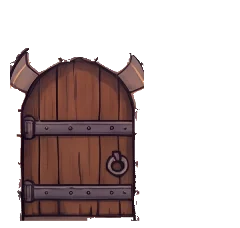
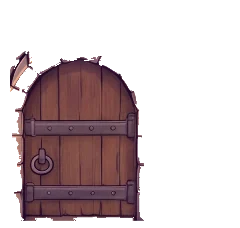
33.3: Draw every painted door as painted at every tick, hang each on the jamb it opens on, open the double door within its doorway, and show the common room's planks through its door
D156. doorLook never sets the placeholder's frame on a door with painted states: where
the state's picture is not loaded it keeps the painted state it shows and takes the
picture once it is added. The scene says each door's picture in data-door-looks, and a
browser test plays *Izquierda o derecha* in both ways and the three doors, every tick and
back to the first and the last, holding each door's painted state. The "old door" of the
owner's ticks 9 and 13 was a stale capture (33.1); the owner's tick 6 was true of the
painting: the room of two doors' right door, and the three doors, were hinged on the left
when shut and opened on the right. The owner chose (2026-11-08) to paint them shut with
their ironwork on the side they open on: two-doors-closed-hinged.md (1 image) for the
right door, three-doors-closed-hinged.md (1 image) for the three, whose top door stayed
as it was, asked again with -2 and -3 (2 retries). Each shut leaf is cut by difference
against the base (trace.py diff, its box as before); the top door's picture came back a
little cooler, so its mask takes some of its left jamb (leak 0.05), which the arch's own
cut-out is drawn over: the doors sheet shows no seam.

D158. The way down's double door, opened wide, ran into the side walls. Gemini opened it
again from the base and the shut picture, without the wide one (whose layout a model
copies): way-down-open-half.md laid the leaves over the piers again and took the jambs
[…]

Changed region(s): [[0.0292, 0.2149, 0.6125, 0.9825]]

diff --git a/app/e2e/chapter-3.spec.ts b/app/e2e/chapter-3.spec.ts
@@ -368,6 +368,42 @@ test('the map shows chapter 3 in its order', async ({ page }) => {
   await page.locator('.map-chapter').nth(2).screenshot({ path: `${SHOTS}map.png` });
 });
 
+test.describe('a painted door, at every tick (D156)', () => {
+  test.use({ locale: 'en-US' });
+  test.beforeEach(({ page }) => seedWizard(page, PABLO));
+
+  /** Every tick of the run shown, each door drawn with its painted state as it is then:
+   * at the tick it opens, at the run's end, and when the timeline goes back. */
+  async function everyTick(page: Page, doors: string[]): Promise<void> {
+    const timeline = page.locator('#timeline');
+    const last = Number(await timeline.getAttribute('max'));
+    for (const tick of [...Array.from({ length: last + 1 }, (_, t) => t), 0, last]) {
+      await timeline.fill(String(tick));
+      await expect(scene(page)).toHaveAttribute('data-tick', String(tick));
+      await expect
+        .poll(async () => {
+          const open = ((await scene(page).getAttribute('data-doors')) ?? '').split(',');
+          const shown = doors.map((door) => `${door}:art-${door}-${open.includes(door) ? 'open' : 'closed'}`);
+          return (await scene(page).getAttribute('data-door-looks')) === shown.join(';');
+        })
+        .toBe(true);
+    }
+  }
+
+  test('left or right, in both ways, and the three doors', async ({ page }) => {
+    await open(page, 'left-or-right');
+    expect(await run(page, solution('left-or-right'))).toMatch(/^You did it/);
+    for (const way of waysOf('left-or-right')) {
+      await page.locator('#way').selectOption(way, { force: true });
+      await expect(page.locator('.outcome-text')).toHaveText(/^You did it/, { timeout: 30_000 });
+      await everyTick(page, ['left_door', 'right_door']);
+    }
+    await open(page, 'the-three-doors');
+    expect(await run(page, solution('the-three-doors'))).toMatch(/^You did it/);
+    await everyTick(page, ['door_1', 'door_2', 'door_3']);
+  });
+});
+
 for (const [scenery, level] of [
   ['the-tunnel', 'the-doors-corridor'],
   ['the-crossing', 'the-tunnel-exit'],

diff --git a/app/src/engine/scene.ts b/app/src/engine/scene.ts
@@ -373,14 +373,23 @@ class LevelScene extends Phaser.Scene {
     return this.add.sprite(...centre(tile), placeholder, facing).setOrigin(0.5, 0.6);
   }
 
-  /** A door's look, shut or open: its painted state, or the placeholder's frame. */
+  /** A door's look, shut or open: its painted state, or, on a scene with no painting of
+   * it, the placeholder's frame. A painted door is never drawn with the placeholder's
+   * frame (D156): where its state's picture is not there, it keeps the painted state it
+   * shows, and takes the state's picture once it is loaded. */
   private doorLook(id: string, open: boolean, lock: string, moving = false): void {
     this.markBehind(id, open, moving);
     const image = this.things.get(id);
     if (!image) return;
     const key = this.atHour(`art-${this.artOf(id)}-${open ? 'open' : 'closed'}`);
     if (!this.textures.exists(key)) {
-      image.setFrame(open ? 'open' : lock);
+      if (!this.art?.scene.things[this.artOf(id)]) {
+        image.setFrame(open ? 'open' : lock);
+        return;
+      }
+      this.textures.once(`addtexture-${key}`, () => {
+        if (this.openDoors.has(id) === open) this.doorLook(id, open, lock);
+      });
       return;
     }
     // Open, what is seen through the doorway is under whoever stands in it (D95).
@@ -776,6 +785,12 @@ class LevelScene extends Phaser.Scene {
       .sort()
       .join(';');
     if (this.parentNode.dataset.drawn !== drawn) this.parentNode.dataset.drawn = drawn;
+    // The picture each door is drawn with, for the tests (D156).
+    const looks = [...this.doors.keys()]
+      .map((id) => `${id}:${this.things.get(id)?.texture.key ?? ''}`)
+      .sort()
+      .join(';');
+    if (this.parentNode.dataset.doorLooks !== looks) this.parentNode.dataset.doorLooks = looks;
   }
 
   /** The way of the level being shown (D51), whose places a restart uses; null for

diff --git a/world/tests/test_passages.py b/world/tests/test_passages.py
@@ -605,6 +605,17 @@ def test_the_dark_room_s_differences_are_never_below_zero(way, right, down):
     assert run_code(real("the-dark-room").way(way), code).stdout == f"{right} {down}\n"
 
 
+def test_the_storeroom_s_open_leaf_keeps_everyone_off_the_cell_it_stands_on():
+    """The owner, 2026-11-08: the storeroom's door, open, covers (9, 13) as well as
+    (9, 11) and (9, 12) (D125, D157): a step onto it from beside is refused."""
+    level = "the-dark-room"
+    code = solution(level) + "wizard.move_down(4)\nwizard.move_left()\n"
+    for way, one in run_code(real(level), code).ways:
+        blocked = [e.data for e in one.events if e.kind == "blocked"]
+        assert blocked[-1]["at"] == [10, 13] and blocked[-1]["reason"] == "door_leaf", way
+        assert blocked[-1]["facing"] == "left", way
+
+
 def test_a_move_of_no_steps_walks_nothing_where_the_key_lies_on_our_row():
     level = real("the-dark-room").way("same_row")
     result = run_code(level, solution("the-dark-room"))

diff --git a/tools/art/prompts/way-down-open-half.md b/tools/art/prompts/way-down-open-half.md
@@ -1,0 +1,13 @@
+---
+candidate: game-way-down
+service: gemini
+model: gemini-3-pro-image
+image: ["art/raw/game-way-down/way-down-base.png", "art/raw/game-way-down/way-down-open.png", "art/raw/game-way-down/way-down-whole.png"]
+aspect_ratio: 4:3
+image_size: 4K
+---
+Edit the first picture. It is a finished painting, seen from above at an angle, of a stone corridor of a castle at night running up and down the picture, and a third of the way down a stone wall crossing it, seen from the front, with an open arched doorway in a stone arch. Below that wall the corridor goes on between two side walls, which begin right at the doorway's two jambs. The second picture is the same painting with the doorway's double wooden door standing wide open: there each leaf has swung so far that it runs into the side wall below it, which is wrong. The third picture is the same painting with the door shut. Use the second and the third pictures only to see what the two leaves look like.
+
+Make one change only to the first picture: paint in the doorway its two leaves, standing half open. They are the same two leaves, the same planks, the same iron hinges and the same rings, at their full height, each with its part of the arched top. The left leaf is hung on the left jamb and the right leaf on the right jamb, and each has swung toward us on its hinges only halfway, an eighth of a turn, so that each stands at a slant in front of its own half of the doorway, inside the doorway's width: no part of a leaf lies over a jamb, over the arch's sides or over the side walls of the corridor below. Each is seen foreshortened in the same view from above: its hinge edge on its jamb, its free edge nearer to us, lower in the picture and nearer the doorway's middle, its foot on the floor with both its bottom corners drawn, and a soft shadow on that floor. Between the two free edges the middle of the doorway stays open, and through it we still see the corridor's floor beyond the wall, running out without a break to the floor in front of it: no bar, no line across the doorway's foot, no sill and no step. The stone arch and the side walls stay exactly as they are.
+
+Everything else stays exactly as it is, pixel for pixel: every wall, stone, paving stone, banner, torch and flame, the other arches, every room and its furniture, in the same place, at the same size, in the same colours and the same light, in the same painted cartoon style. Do not move, redraw, sharpen or restyle anything. No grid, no text, no people.

diff --git a/tools/art/prompts/way-down-open-half-2.md b/tools/art/prompts/way-down-open-half-2.md
@@ -1,0 +1,13 @@
+---
+candidate: game-way-down
+service: gemini
+model: gemini-3-pro-image
+image: ["art/raw/game-way-down/way-down-base.png", "art/raw/game-way-down/way-down-whole.png"]
+aspect_ratio: 4:3
+image_size: 4K
+---
+Edit the first picture. It is a finished painting, seen from above at an angle, of a stone corridor of a castle at night running up and down the picture, and a third of the way down a stone wall crossing it, seen from the front, with an open arched doorway in a stone arch. The arch's stones run down both sides of the doorway as its two jambs, to the floor. Below that wall the corridor goes on between two side walls, which begin right below the jambs. The second picture is the same painting with the doorway closed by its double wooden door; use it only to see what the two leaves look like.
+
+Make one change only to the first picture: paint in the doorway its two leaves, each opened only a little, half of the way it could open. They are the same two leaves as in the second picture, the same planks, the same iron hinges and the same rings, at their full height, each with its part of the arched top. Each leaf is hung on the inner edge of its own jamb, and has turned toward us on its hinges, so that it stands at a slant inside the doorway, in front of the outer half of its own side of the opening: the left leaf in front of the left part of the opening, the right leaf in front of the right part. Seen from where we look, each leaf is narrower than when shut, foreshortened, its free edge nearer to us, lower in the picture and nearer the doorway's middle, its foot on the floor with both its bottom corners drawn, and a soft shadow on that floor. Both leaves lie wholly inside the doorway's opening, between the inner edges of the two jambs: the arch's stones and both jambs stay whole and in view, exactly as in the first picture, and no leaf lies over them or over the side walls below. Between the two free edges the middle of the doorway stays open, and through it we still see the corridor's floor beyond the wall, running out without a break to the floor in front of it.
+
+Everything else stays exactly as it is, pixel for pixel: the stone arch and its jambs, every wall, stone, paving stone, banner, torch and flame, the other arches, every room and its furniture, in the same place, at the same size, in the same colours and the same light, in the same painted cartoon style. Do not move, redraw, sharpen or restyle anything. No grid, no text, no people.

diff --git a/tools/art/prompts/dormitory-front-door-open-2.md b/tools/art/prompts/dormitory-front-door-open-2.md
@@ -1,0 +1,13 @@
+---
+candidate: game-dormitory
+service: gemini
+model: gemini-3-pro-image
+image: ["art/raw/game-dormitory/dormitory-walls.png", "art/raw/game-dormitory/dormitory-door-swung.png"]
+aspect_ratio: 4:3
+image_size: 4K
+---
+Edit the first picture. It is a finished painting, seen from above at an angle, of the first-year dormitory of a castle at night: the common room's wooden floor of narrow planks, the beds and the furniture, and at the bottom the room's front wall, seen from the front, with a door in a stone arch, and the stone corridor running in front of that wall. The second picture is the same painting with that door swung open; use it only to see where the open leaf stands.
+
+Make one change only to the first picture: the door in the stone arch of the front wall stands open. Its leaf, the same wooden leaf with the same two black iron strap hinges and the same round ring, at its full height, has swung toward us on its hinges on the left jamb, and stands out from the front wall to the left of the arch, as in the second picture: seen foreshortened in the same view from above, its hinge edge on the left jamb, its free edge nearer to us, its foot on the corridor's floor with both its bottom corners drawn, and a soft shadow on the wall and the floor. Through the doorway we see the common room's own floor beyond the wall: the same narrow planks running up and down, of the same width and in the same dark warm brown as the room's floor just above the front wall, in the room's dim light and darker still under the arch, not lit by the corridor's torches. They run on without a break from the room down through the doorway to the doorway's foot, where they meet the corridor's paving at the line of the wall's foot. The stone arch and its jambs stay exactly as they are.
+
+Everything else stays exactly as it is, pixel for pixel: every wall, plank, bed, quilt, chest, candle and flame, torch, window and the sky, the corridor's paving, in the same place, at the same size, in the same colours and the same light, in the same painted cartoon style. Do not move, redraw, sharpen or restyle anything. No grid, no text, no people.

diff --git a/tools/art/prompts/dormitory-front-door-open.md b/tools/art/prompts/dormitory-front-door-open.md
@@ -1,0 +1,13 @@
+---
+candidate: game-dormitory
+service: gemini
+model: gemini-3-pro-image
+image: ["art/raw/game-dormitory/dormitory-walls.png", "art/raw/game-dormitory/dormitory-door-swung.png"]
+aspect_ratio: 4:3
+image_size: 4K
+---
+Edit the first picture. It is a finished painting, seen from above at an angle, of the first-year dormitory of a castle at night: the common room's wooden floor of narrow planks, the beds and the furniture, and at the bottom the room's front wall, seen from the front, with a door in a stone arch, and the stone corridor running in front of that wall. The second picture is the same painting with that door swung open; use it only to see where the open leaf stands.
+
+Make one change only to the first picture: the door in the stone arch of the front wall stands open. Its leaf, the same wooden leaf with the same two black iron strap hinges and the same round ring, at its full height, has swung toward us on its hinges on the left jamb, and stands out from the front wall to the left of the arch, as in the second picture: seen foreshortened in the same view from above, its hinge edge on the left jamb, its free edge nearer to us, its foot on the corridor's floor with both its bottom corners drawn, and a soft shadow on the wall and the floor. Through the doorway we see the common room's own floor beyond the wall: the same narrow planks, of the same width, the same colour and the same light as the floor round them in the room, running on without a break from the room down through the doorway to the doorway's foot, where they meet the corridor's paving at the line of the wall's foot. The stone arch and its jambs stay exactly as they are.
+
+Everything else stays exactly as it is, pixel for pixel: every wall, plank, bed, quilt, chest, candle and flame, torch, window and the sky, the corridor's paving, in the same place, at the same size, in the same colours and the same light, in the same painted cartoon style. Do not move, redraw, sharpen or restyle anything. No grid, no text, no people.

diff --git a/tools/art/prompts/three-doors-closed-hinged-3.md b/tools/art/prompts/three-doors-closed-hinged-3.md
@@ -1,0 +1,13 @@
+---
+candidate: game-three-doors
+service: gemini
+model: gemini-3-pro-image
+image: art/raw/game-three-doors/three-doors-closed-hinged.png
+aspect_ratio: 4:3
+image_size: 4K
+---
+Edit this picture. It is a finished painting, seen from above at an angle, of a straight corridor of a castle at night running up and down the middle of the picture, closed by three stone walls seen from the front, one above the other, each with an arched doorway in the middle of it, closed by a wooden door with two iron bands and a round iron ring. The two lower doors are hung on their right jambs: their iron bands run from their right edge, their hinge plates on the right, and their rings are on their left side.
+
+Make one change only: the door in the top doorway, in the first wall from the top of the picture, is hung on its right jamb like the two doors below it. Its two iron bands run across it from its right edge, their hinge plates on the right, and its round iron ring is on its left side, as on the two doors below. Its planks, its arched top, its size and its place stay as they are, and it still fills its doorway exactly, from the inner line of the stone arch and its jambs down to the floor line at the doorway's foot.
+
+Everything else stays exactly as it is, pixel for pixel, in the same warm torchlit colours as now: the two lower doors, the three stone arches and their jambs, every wall, stone, torch and flame, the arches at the top and at the bottom of the picture, every room and its furniture, in the same place, at the same size, in the same colours and the same light, in the same painted cartoon style. Do not move, redraw, sharpen or restyle anything. No grid, no text, no people.

diff --git a/tools/art/prompts/three-doors-closed-hinged-2.md b/tools/art/prompts/three-doors-closed-hinged-2.md
@@ -1,0 +1,13 @@
+---
+candidate: game-three-doors
+service: gemini
+model: gemini-3-pro-image
+image: art/raw/game-three-doors/three-doors-closed-hinged.png
+aspect_ratio: 4:3
+image_size: 4K
+---
+Edit this picture. It is a finished painting, seen from above at an angle, of a straight corridor of a castle at night running up and down the middle of the picture, closed by three stone walls seen from the front, one above the other, each with an arched doorway in the middle of it, closed by a wooden door with two iron bands and a round iron ring. The two lower doors are hung on their right jambs: their iron bands run from their right edge, their hinge plates on the right, and their rings are on their left side.
+
+Make one change only: the door in the top doorway, in the first wall from the top of the picture, is hung on its right jamb like the two doors below it. Its two iron bands run across it from its right edge, their hinge plates on the right, and its round iron ring is on its left side, as on the two doors below. Its planks, its arched top, its size and its place stay as they are, and it still fills its doorway exactly, from the inner line of the stone arch and its jambs down to the floor line at the doorway's foot.
+
+Everything else stays exactly as it is, pixel for pixel: the two lower doors, the three stone arches and their jambs, every wall, stone, torch and flame, the arches at the top and at the bottom of the picture, every room and its furniture, in the same place, at the same size, in the same colours and the same light, in the same painted cartoon style. Do not move, redraw, sharpen or restyle anything. No grid, no text, no people.

diff --git a/tools/art/prompts/two-doors-closed-hinged.md b/tools/art/prompts/two-doors-closed-hinged.md
@@ -1,0 +1,13 @@
+---
+candidate: game-two-doors
+service: gemini
+model: gemini-3-pro-image
+image: art/raw/game-two-doors/two-doors-closed.png
+aspect_ratio: 4:3
+image_size: 4K
+---
+Edit this picture. It is a finished painting, seen from above at an angle, of a stone hall of a castle at night, with a corridor running along its bottom, and between them a stone wall seen from the front, with two arched doorways in that wall, each closed by a wooden door with two black iron strap hinges and a round iron ring.
+
+Make one change only: the door in the right-hand doorway is hung on its right jamb. Its two black iron strap hinges run across it from its right edge, their pointed ends toward the left, and its round iron ring is on its left side, as if that door were seen in a mirror. Its planks, its arched top, its size and its place stay as they are, and it still fills its doorway exactly, from the inner line of the stone arch and its jambs down to the floor line at the doorway's foot. The left-hand door stays exactly as it is.
+
+Everything else stays exactly as it is, pixel for pixel: the left-hand door, both stone arches and their jambs, every wall, stone, floor slab, crack, torch and flame, the banner, the bench, the barrels and every other thing, in the same place, at the same size, in the same colours and the same light, in the same painted cartoon style. Do not move, redraw, sharpen or restyle anything. No grid, no text, no people.

diff --git a/tools/art/prompts/three-doors-closed-hinged.md b/tools/art/prompts/three-doors-closed-hinged.md
@@ -1,0 +1,13 @@
+---
+candidate: game-three-doors
+service: gemini
+model: gemini-3-pro-image
+image: art/raw/game-three-doors/three-doors-whole.png
+aspect_ratio: 4:3
+image_size: 4K
+---
+Edit this picture. It is a finished painting, seen from above at an angle, of a straight corridor of a castle at night running up and down the middle of the picture, closed by three stone walls seen from the front, one above the other, each with an arched doorway in the middle of it, closed by a wooden door with two iron bands and a round iron ring.
+
+Make one change only: each of the three doors is hung on its right jamb. On each door, the two iron bands run across it from its right edge, their hinge plates on the right, and its round iron ring is on its left side, as if each door were seen in a mirror. Each door's planks, its arched top, its size and its place stay as they are, and it still fills its doorway exactly, from the inner line of the stone arch and its jambs down to the floor line at the doorway's foot.
+
+Everything else stays exactly as it is, pixel for pixel: the three stone arches and their jambs, every wall, stone, torch and flame, the arches at the top and at the bottom of the picture, every room and its furniture, in the same place, at the same size, in the same colours and the same light, in the same painted cartoon style. Do not move, redraw, sharpen or restyle anything. No grid, no text, no people.

diff --git a/content/art/scenes/the-dormitory/SOURCE.md b/content/art/scenes/the-dormitory/SOURCE.md
@@ -11,8 +11,11 @@ later, like the rest of it.
   the painting kept pixel for pixel elsewhere: the castle's wall closing the
   corridor off from the battlements, going on from the rooms' front wall
   (`game-dormitory-corner-2.md`).
-- Its door to the corridor opened without a model (`repaint.py doorways`),
-  its leaf painted with the common room's own floor.
+- Its door to the corridor opened: the doorway's floor, the common room's planks,
+  from Gemini's edit of the painting with the door open
+  (`dormitory-front-door-open.md`), taken within the doorway (D148); the leaf
+  swung against the front wall as a model painted it on the shut leaf turned
+  over (`game-dormitory-door-swung.md`).
 - Its beds, trunks, bedside tables, armchairs and table, and the beds' quilts
   and sheets, cut where Gemini painted them flat magenta in pictures of the
   dormitory (`game-dormitory-marked-*.md`, `game-dormitory-covers-*.md`); its
